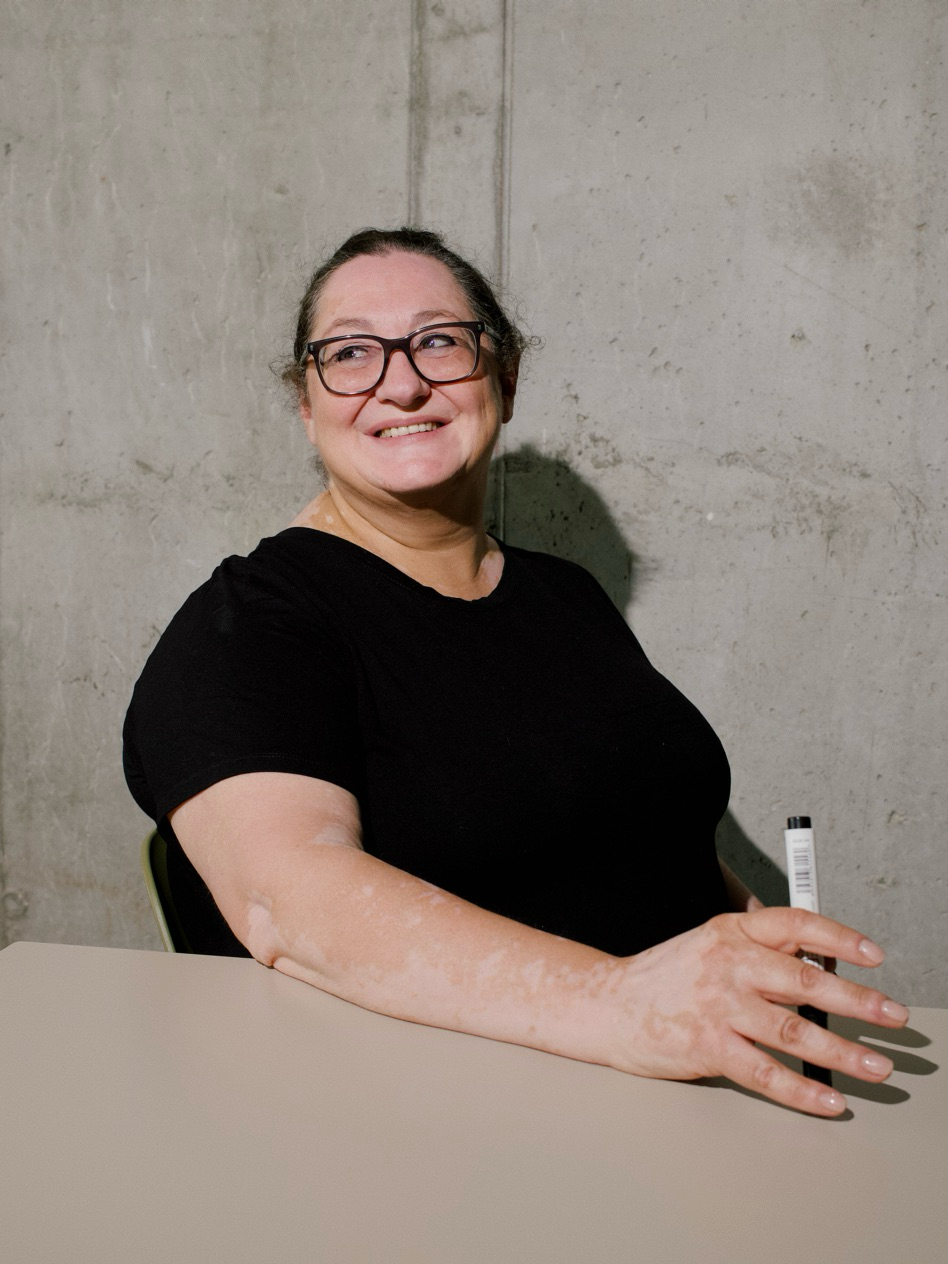
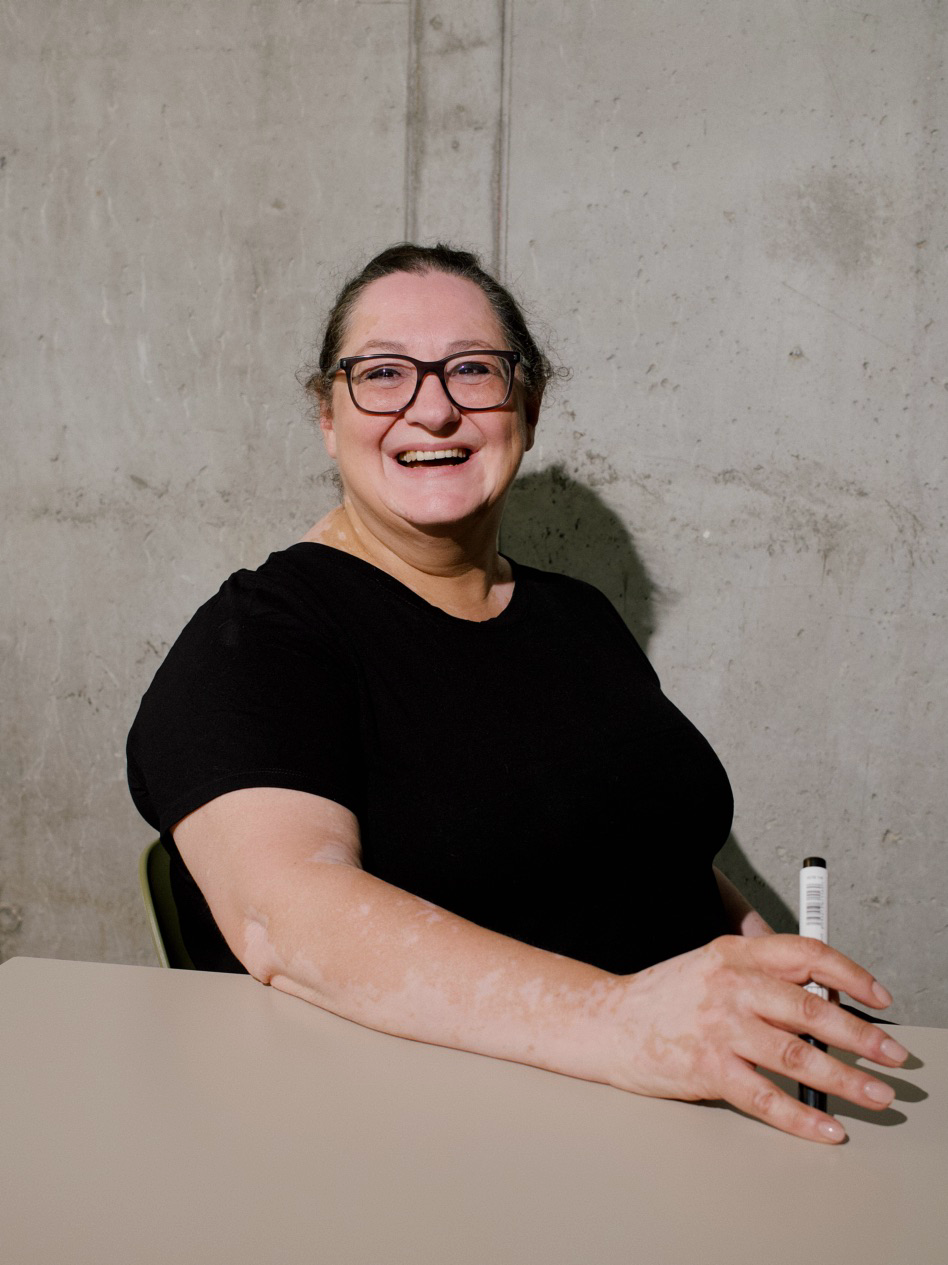
Home: restore FAQ before footer, drop footer phone, new Zinaida photo, trim hero copy

diff --git a/app/page.tsx b/app/page.tsx
@@ -7,11 +7,11 @@ import { Initiatives } from "@/components/initiatives/Initiatives";
 import { Mission } from "@/components/sections/Mission";
 import { Team } from "@/components/sections/Team";
 import { Quote } from "@/components/sections/Quote";
+import { Faq } from "@/components/sections/Faq";
 import { SiteFooter } from "@/components/sections/SiteFooter";
 // Temporarily hidden — kept for later reuse:
 // import { Events } from "@/components/sections/Events";
 // import { About } from "@/components/sections/About";
-// import { Faq } from "@/components/sections/Faq";
 // import { Cta } from "@/components/sections/Cta";
 
 /**
@@ -40,8 +40,9 @@ export default function Home() {
           <Mission />
           <Team />
           <Quote />
+          <Faq />
           {/* Temporarily hidden — to be reused later:
-          <Events /> <About /> <Faq /> <Cta /> */}
+          <Events /> <About /> <Cta /> */}
         </main>
       </div>
 

diff --git a/lib/home-content.ts b/lib/home-content.ts
@@ -18,7 +18,7 @@ export const nav = {
 export const hero = {
   heading: "Дизайнът движи нации. Ние го задвижваме в България.",
   subheading:
-    "Български Дизайн Съвет обединява 40 000+ дизайн професионалисти, бизнеса, образованието и институциите в една платформа, с една обща мисия: да създаде България бъдещето си, с умисъл.",
+    "Български Дизайн Съвет обединява дизайн професионалисти, бизнеса, образованието и институциите в една платформа, с една обща мисия: да създаде България бъдещето си, с умисъл.",
   primary: { label: "Стани част от БДС", href: "https://tally.so/r/81PbQA" },
 };
 

diff --git a/components/sections/SiteFooter.tsx b/components/sections/SiteFooter.tsx
@@ -24,9 +24,6 @@ export function SiteFooter() {
 
         <div className="col-span-4 flex flex-col gap-4 md:col-span-4 lg:col-start-9 lg:col-span-3 lg:items-start">
           <p className="t-caption font-bold">{footer.contactHeading}</p>
-          <a href={`tel:${footer.phone.replace(/\s/g, "")}`} className="t-caption hover:opacity-70">
-            {footer.phone}
-          </a>
           <a href={`mailto:${footer.email}`} className="t-caption hover:opacity-70">
             {footer.email}
           </a>
